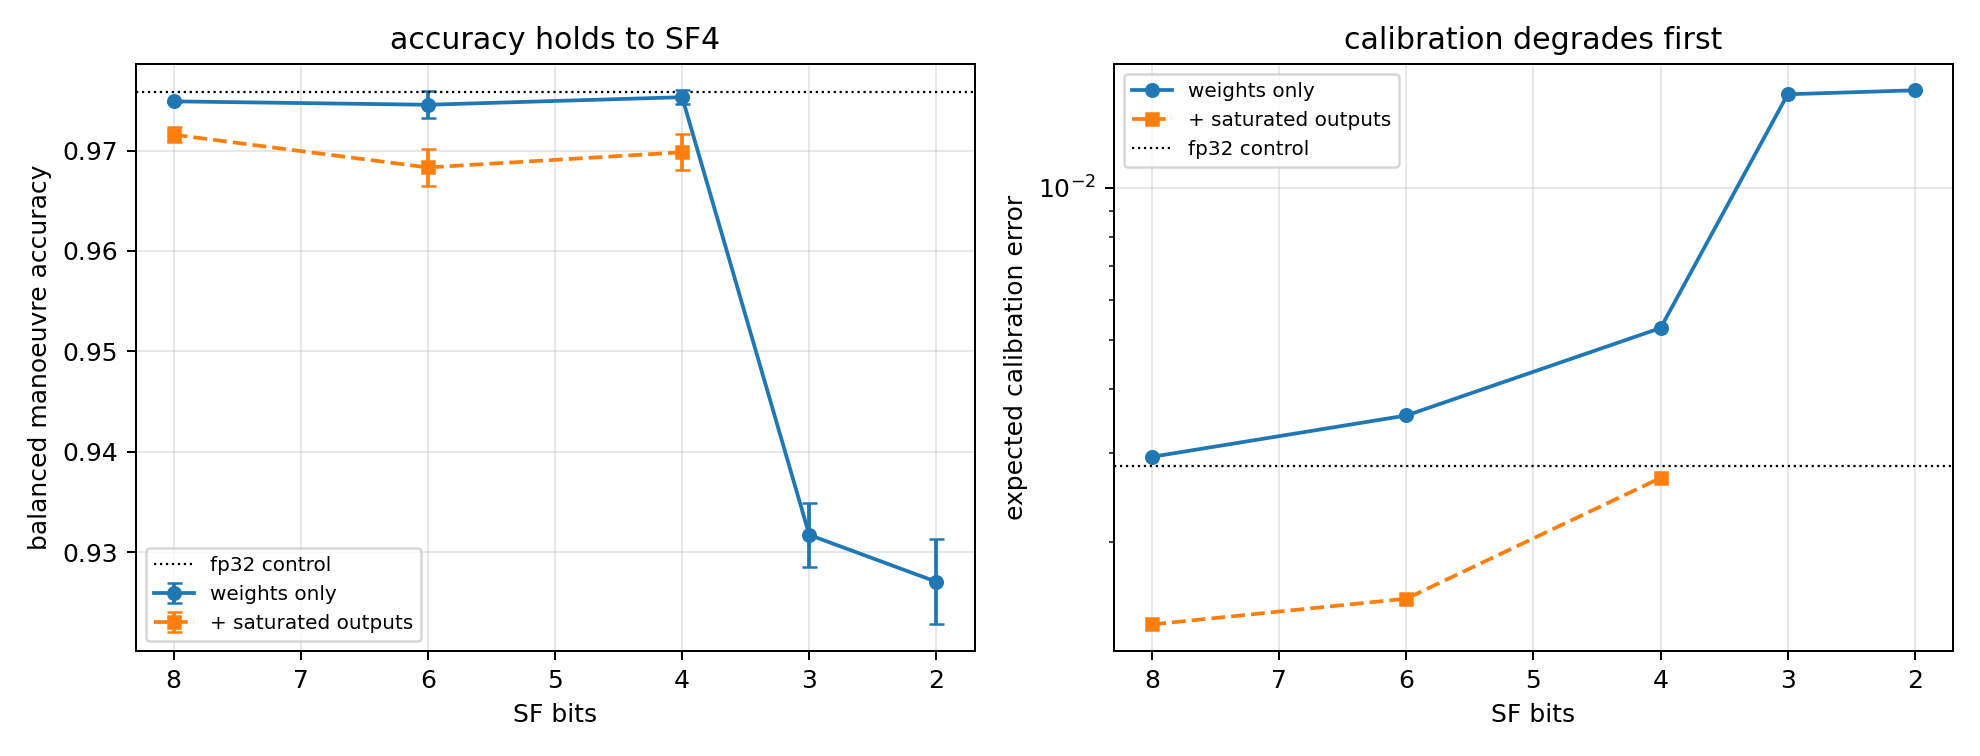
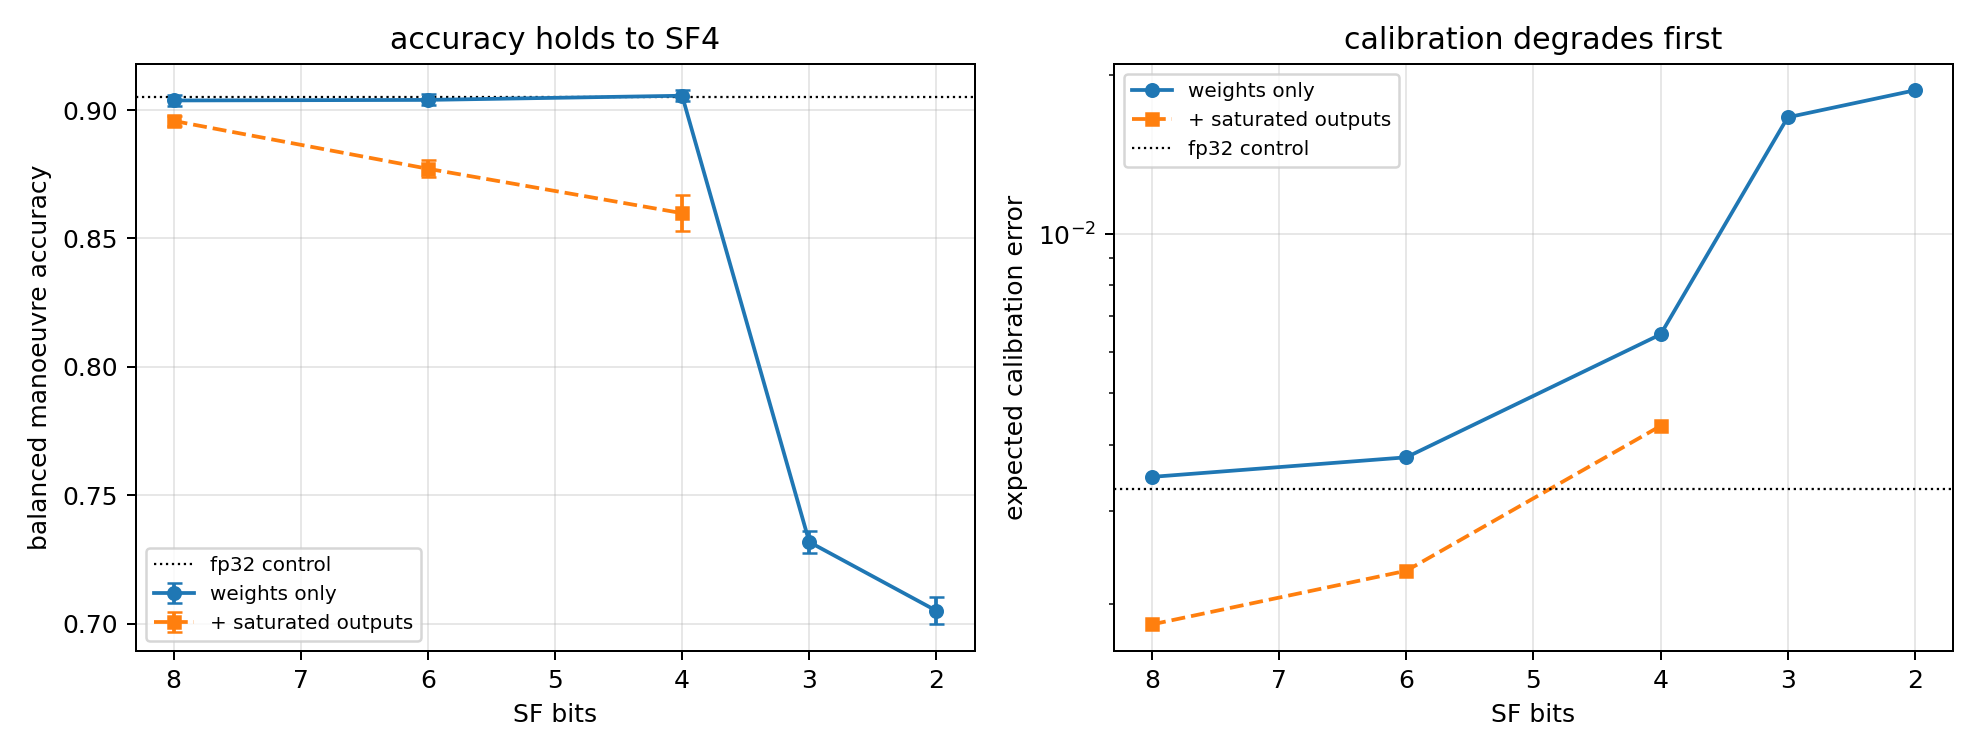
Dogfight v2 results: the easy task was hiding the damage
33 arms x 3 seeds plus closed-loop, run in parallel (10 GPU workers, 8 CPU
workers) in ~13 min against ~50 sequential.

Holding everything else fixed, going from 9 manoeuvres / 1 opponent (71% top
class) to 21 manoeuvres / 9-policy league (28% top class) made the degradation
visible:

  SF3 balanced accuracy      95.5% -> 80.9%
  SF3 closed-loop agreement  73.0% -> 64.6%
  SF4 closed-loop agreement  96.0% -> 91.8%

The v1 numbers were not the format tolerating quantization, they were a task
easy enough to hide it.

Calibration still degrades before accuracy: SF4 free on balanced accuracy,
already 2.0x ECE. Cliff between SF4 and SF3 on every axis.

The activation-saturation calibration benefit REPLICATES: 0.6x fp32 ECE at SF8
against 0.5x in v1, on a different vocabulary, different opponents and a
different dataset. Two independent measurements now, so it is not a quirk of
one training set.

Win rate: SF2 now cleanly resolved at 78.2% (~3.4 sigma), which v1 could not
do. SF4 at 90.9% is ~2.1 sigma on three seeds and is NOT claimed. Agreement
resolves the band, win rate does not.

The v1 crash-rate artefact is gone. It fell as the model degraded (10.5% at SF2
vs 26.5% fp32) because broken policies went passive -- the BFCL irrelevance
trap again. v2 is flat at 0.21-0.26 with SF3 highest: letting 'recover' compete
against 20 alternatives instead of 8 removed the passivity failure mode.

diff --git a/benchmarks/lab/dogfight/README.md b/benchmarks/lab/dogfight/README.md
@@ -75,61 +75,67 @@ tournament.py  round-robin validation of the harness
 
 ## Results
 
-Three seeds per arm, 30 epochs, identical data in identical order. fp32 is the
-100% baseline; published numbers for other models are never the reference.
+Three seeds per arm, 30 epochs, identical data in identical order, 21
+manoeuvres against a nine-policy opponent league. fp32 is the 100% baseline;
+published numbers for other models are never the reference.
 
-### Accuracy and calibration disagree, and that is the finding
+| arm | bal. acc | ECE | win rate | closed-loop agreement |
+| --- | --- | --- | --- | --- |
+| fp16 / bf16 | 100.1 / 100.0% | 1.0x | 99.0 / 98.5% | 99.8 / 100.1% |
+| SF8 | 99.9% | 1.1x | 93.9% | 99.0% |
+| SF6 | 99.9% | 1.2x | 97.0% | 97.5% |
+| SF4 | 100.1% | 2.0x | 90.9% | 91.8% |
+| SF3 | 80.9% | 5.1x | 89.8% | 64.6% |
+| SF2 | 78.0% | 5.7x | 78.2% | 63.0% |
+| SF8 + saturated outputs | 99.0% | **0.6x** | 97.5% | 100.6% |
+| SF6 + saturated outputs | 97.0% | **0.7x** | 107.6% | 97.9% |
+| SF4 + saturated outputs | 95.1% | 1.3x | 85.3% | 94.8% |
 
-| arm | balanced acc (rel) | ECE (rel) | closed-loop agreement |
-| --- | --- | --- | --- |
-| fp16 / bf16 | 100.0% | 1.0x | 0.947 / 0.949 |
-| SF8 | 99.9% | 1.1x | 0.945 |
-| SF6 | 99.9% | 1.3x | 0.929 |
-| SF4 | 100.0% | 1.9x | 0.910 |
-| SF3 | 95.5% | 5.5x | 0.692 |
-| SF2 | 95.0% | 5.6x | 0.678 |
-| SF8 + saturated outputs | 99.6% | **0.5x** | **0.961** |
-| SF6 + saturated outputs | 99.3% | 0.6x | 0.936 |
-| SF4 + saturated outputs | 99.4% | 1.0x | 0.901 |
+**Calibration degrades before accuracy.** SF4 is free on balanced accuracy and
+already costs double the calibration error. For a typed-decision model whose
+output *is* a probability, accuracy alone would have called SF4 safe and been
+wrong. The cliff sits between SF4 and SF3 on every axis independently.
 
-SF4 is free on accuracy while already costing nearly double the calibration
-error. Accuracy alone would have called it safe, and for a typed-decision model
-whose output *is* a probability that would have been the wrong call. The cliff
-sits between SF4 and SF3 on every axis.
-
-**Saturating layer outputs improves calibration.** That is the Atreides
-datapath, not the weights-only recipe the rest of the repo measures, and at SF8
-it halves ECE against fp32 for 0.4 points of balanced accuracy. Bounding every
-layer output bounds the hidden state, which shrinks logits and cures
-overconfidence -- an implicit confidence regulariser.
+**Saturating layer outputs improves calibration**, to 0.6x fp32 at SF8. That is
+the Atreides datapath rather than the weights-only recipe the rest of the repo
+measures. Bounding every layer output bounds the hidden state, which shrinks
+logits and cures overconfidence -- an implicit confidence regulariser. It
+replicates the v1 result (0.5x) on a different vocabulary, different opponents
+and a different dataset, so it is not a quirk of one training set.
 
 It contrasts with [PURE_SF.md](../../../PURE_SF.md) section 1, where the same
 literal saturate-every-register recipe destroyed SmolLM2-360M (13.42 against
-2.67 nats). It does not overturn that. The regimes differ -- normalised O(1)
-inputs and a four-block residual here, against a 360M LM whose residual reaches
-tens of thousands -- so the reading is that the datapath question has a
-different answer at control-model scale, which is the scale the hardware
-targets.
+2.67 nats), and does not overturn it: normalised O(1) inputs and a four-block
+residual here against a 360M LM whose residual reaches tens of thousands. The
+datapath question has a different answer at control-model scale, which is the
+scale the hardware targets.
 
-### Closed loop: agreement is the usable metric, win rate is not
+### What the richer vocabulary changed
 
-Agreement degrades monotonically with seed spreads of 0.001-0.02 and reproduces
-the SF4/SF3 cliff exactly. Win rate carries 31-37% draws and spreads up to
-0.029, so although SF4 scores 113% of fp32 it is under 3 sigma on three seeds
-and **is not claimed**.
+The v1 harness had 9 manoeuvres and one opponent, and the expert answered
+`pursue` to 71% of states. v2 has 21 manoeuvres and a nine-policy league, with
+a 28% top class. Holding everything else fixed, that made the damage visible:
 
-**Crash rate falls as the model degrades** -- 10.5% at SF2 against 26.5% at
-fp32 -- and that is a trap, not a win. A degraded policy becomes passive, stops
-chasing, and so neither hits the ground nor wins. This is the same artefact as
-the BFCL irrelevance scores in [TOOL_USE_QAT.md](../../../TOOL_USE_QAT.md)
-section 6, where a model that had stopped emitting tool calls scored 100% on
-correctly declining to call them. A crash rate without a win rate beside it is
-not interpretable.
+| | v1 | v2 |
+| --- | --- | --- |
+| SF3 balanced accuracy | 95.5% | **80.9%** |
+| SF3 closed-loop agreement | 73.0% | **64.6%** |
+| SF4 closed-loop agreement | 96.0% | 91.8% |
 
-The cloned policy wins about 29% against its own teacher and crashes a quarter
-of the time. Behaviour cloning is not expected to match the expert; what the
-study needs is a stable reference, and the relative comparison across
-precisions is the result.
+The easy task was hiding the degradation, not the format tolerating it.
+
+**Win rate is still the weakest metric.** SF2 is now cleanly resolved at 78.2%
+(about 3.4 sigma), which v1 could not do, but SF4 at 90.9% is about 2.1 sigma
+on three seeds and **is not claimed**. Agreement resolves the whole band and
+win rate does not.
+
+**The crash-rate artefact is gone.** v1 showed crash rate *falling* as the model
+degraded -- 10.5% at SF2 against 26.5% at fp32 -- because a degraded policy went
+passive and neither chased nor crashed, the same shape as the BFCL irrelevance
+trap in [TOOL_USE_QAT.md](../../../TOOL_USE_QAT.md) section 6. v2 is flat at
+0.21-0.26 across every arm with SF3 highest. Letting `recover` compete against
+20 alternatives rather than 8 removed the passivity failure mode, so crash rate
+is now interpretable on its own.
 
 ### Latency: the GPU is the denominator, not the answer
 
@@ -141,26 +147,36 @@ then an ordinary Linear with no quantizer in the loop):
 | deployed p50 | 0.33 ms | 0.33 | 0.33 | 0.33 | 0.34 | 0.32 |
 | weights | 8229 KiB | 2057 | 1543 | 1029 | 771 | 514 |
 
-Latency is flat across precisions, as it must be: a GPU has no narrow datapath
-to exploit. A first pass showed a 1.294x spread, which an order control
-disproved -- measuring fp32 both first and last gives as much difference as
-fp32 against SF4 (1.034x at 4000 iterations). It was warmup.
+Flat across precisions, as it must be: a GPU has no narrow datapath to exploit.
+A first pass showed 1.294x spread, which an order control disproved -- fp32
+measured first and last differs as much as fp32 against SF4 (1.034x at 4000
+iterations). It was warmup.
 
-Two things do not come from the GPU. Timing an `SFLinear` model measures the
-cost of *simulating* the format, which is 2-10x and points the wrong way.
-And the real per-precision difference is the 16x weight footprint, which
-decides whether the policy streams from DRAM or sits in on-chip SRAM.
-
-At 2.11M MACs per decision the bridge to hardware is
+Timing an `SFLinear` model measures the cost of *simulating* the format, 2-10x,
+pointing the wrong way. The real per-precision difference is the 16x weight
+footprint, which decides whether the policy streams from DRAM or sits in
+on-chip SRAM. At 2.11M MACs per decision the bridge to hardware is
 
     cycles ~= MACs / PEs,  latency = cycles / Fmax
 
-giving 8224 cycles on a 256-PE array, or 0.082 ms at 100 MHz -- about 4x
-faster than the 4090. That is not a surprising result so much as a statement
-about the regime: at batch 1 on a 2.11M-parameter model the GPU is bound by
-kernel launch overhead, not arithmetic, which is exactly the case a small
-fixed-point accelerator is for. Replace the projection with measured RTL
-numbers before quoting it.
+giving 8224 cycles on a 256-PE array, or 0.082 ms at 100 MHz, about 4x faster
+than the 4090 -- because at batch 1 on a 2.11M model the GPU is bound by kernel
+launch overhead rather than arithmetic. Replace with measured RTL before
+quoting.
+
+### Airframes
+
+`airframes.py` surveys the stock JSBSim roster for supersonic fighters.
+Confirmed and usable: **f16 (Mach 1.51), f15 (1.72), F4N (1.08)**, with **A4
+correctly subsonic at 0.84** -- useful as an asymmetric matchup, since a
+subsonic angles fighter against supersonic energy fighters is a real fight.
+`f22`, `T38` and `F80C` depart under automated control and need per-model FCS
+work; the f22 matters most because it is the only thrust-vectoring airframe and
+gates the whole post-stall manoeuvre class in [TACTICS.md](TACTICS.md).
+
+Turn-rate figures in that file are provisional: only the f16 reaches its G
+limit across the speed grid, so corner velocity and sustained rate for the
+others are not yet trustworthy.
 
 ## What is not established
 
